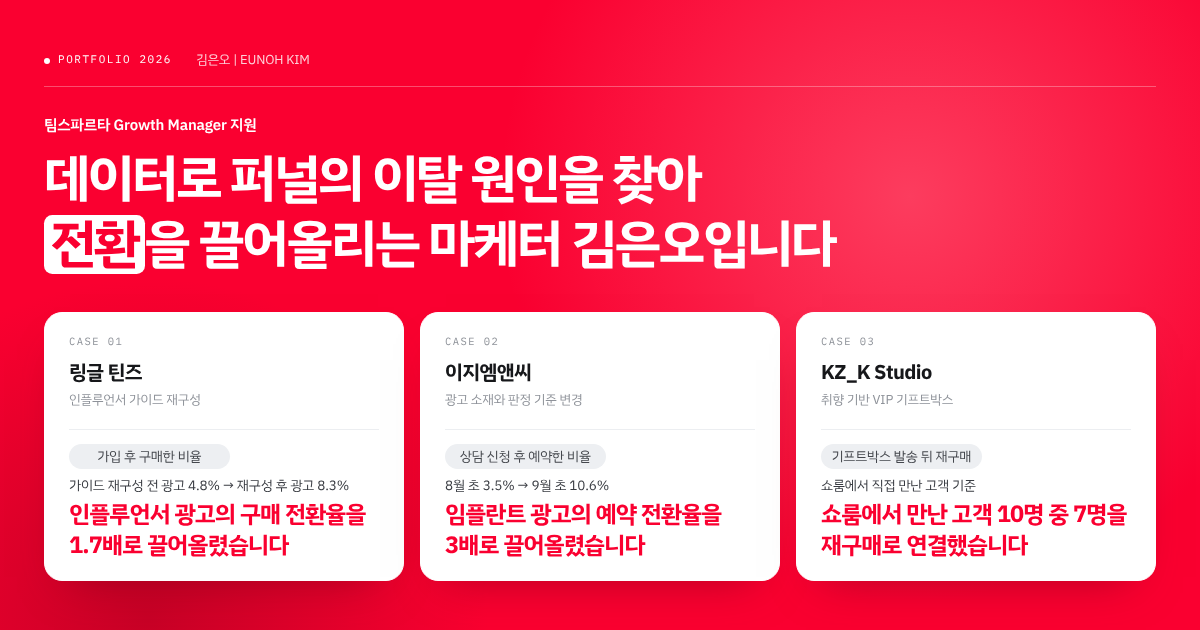
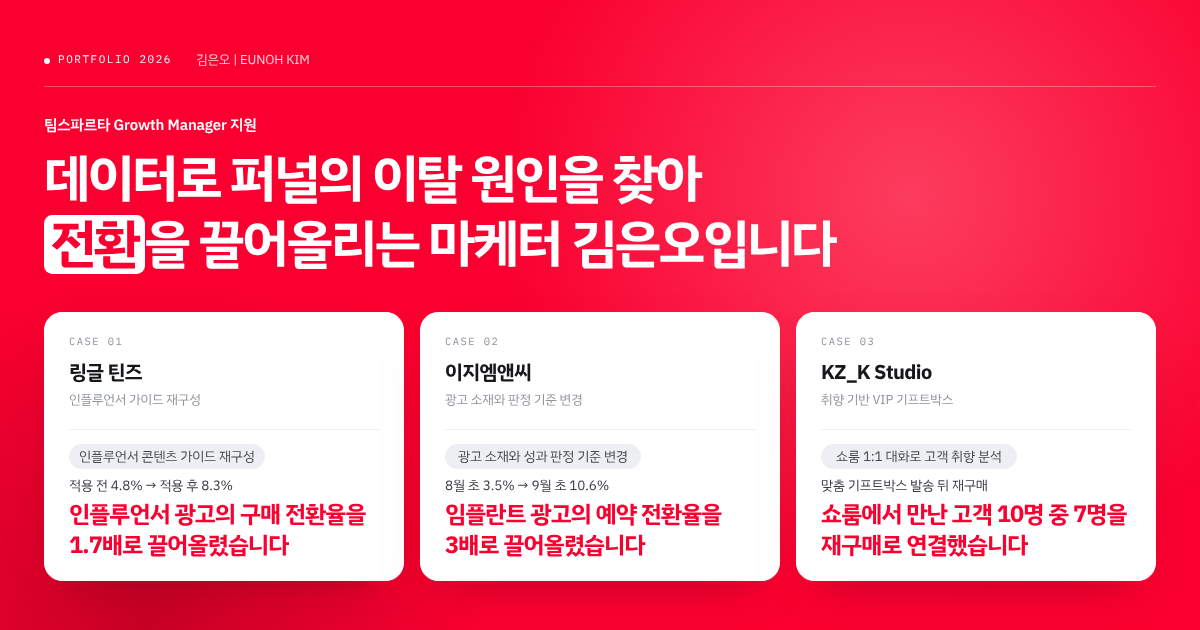
portfolio-teamsparta: cover tile chips and texts replaced; chip always above text
Claude-Session: https://claude.ai/code/session_013smscFGWWBPRpsfkpqHfav

Changed region(s): [[0.0617, 0.6937, 0.3083, 0.7841], [0.6783, 0.6937, 0.8325, 0.7841], [0.37, 0.6937, 0.5242, 0.754]]

diff --git a/portfolio-teamsparta/index.html b/portfolio-teamsparta/index.html
@@ -390,15 +390,15 @@ figcaption{margin-top:7px;font-size:12px;color:var(--mute);line-height:1.4}
 /* 큰 줄: 문장이라 두 줄까지, 타일 폭에 맞춰 세 타일 같은 크기 */
 .hero .hi-num{font-size:clamp(16px,7.6cqi,30px);line-height:1.3;letter-spacing:-.035em}
 @media screen and (max-width:380px){.hero .hero-title{font-size:8vw}}
-/* 표지 타일 작은 줄: 칩 + 텍스트 (타일 폭이 좁으면 칩 윗줄, 텍스트 아랫줄) */
+/* 표지 타일 작은 줄: 칩 + 텍스트 */
 .hero .hi{container-type:inline-size}
 .hero .hi-lb{display:flex;flex-direction:column;align-items:flex-start;gap:6px}
-.hero .hi-chip{display:inline-block;box-sizing:border-box;min-width:11.9em;padding:2px 10px;border-radius:999px;background:#edeff2;color:#44474d;font-size:13.5px;line-height:1.6;text-align:center;white-space:nowrap}
+.hero .hi-chip{display:inline-block;box-sizing:border-box;min-width:14.5em;padding:2px 10px;border-radius:999px;background:#edeff2;color:#44474d;font-size:13.5px;line-height:1.6;text-align:center;white-space:nowrap}
 .hero .hi-txt{font-size:13.5px;line-height:1.6;color:var(--ink-2)}
-@container (min-width:452px){.hero .hi-lb{flex-direction:row;align-items:center;gap:8px}.hero .hi-txt{white-space:nowrap}}
+/* 칩은 항상 윗줄, 텍스트는 아랫줄 (세 타일 통일) */
 /* 작은 글씨가 한 줄에 안 들어가면 '→' 앞에서만 줄바꿈 */
 .hero .hi-txt .seg{white-space:nowrap}
-@media screen and (min-width:861px){@container (max-width:281px){.hero .hi-txt{min-height:3.2em}}}
+@media screen and (min-width:861px){@container (max-width:167px){.hero .hi-txt{min-height:3.2em}}}
 @media screen and (min-width:861px) and (max-width:900px){.hero .hi{padding-left:18px;padding-right:18px}}
 
 /* Contact: 첫 화면과 같은 팀스파르타 레드 #FA0030 바탕 */
@@ -457,19 +457,19 @@ figcaption{margin-top:7px;font-size:12px;color:var(--mute);line-height:1.4}
         <span class="mono">Case 01</span>
         <span class="hi-name">링글 틴즈</span>
         <span class="hi-tag">인플루언서 가이드 재구성</span>
-        <span class="hi-res"><span class="hi-lb"><span class="hi-chip">가입 후 구매한 비율</span><span class="hi-txt"><span class="seg">가이드 재구성 전 광고 4.8%</span> <span class="seg">→ 재구성 후 광고 8.3%</span></span></span><span class="hi-num" data-grow>인플루언서 광고의 구매 전환율을 1.7배로 끌어올렸습니다</span></span>
+        <span class="hi-res"><span class="hi-lb"><span class="hi-chip">인플루언서 콘텐츠 가이드 재구성</span><span class="hi-txt"><span class="seg">적용 전 4.8%</span> <span class="seg">→ 적용 후 8.3%</span></span></span><span class="hi-num" data-grow>인플루언서 광고의 구매 전환율을 1.7배로 끌어올렸습니다</span></span>
       </a>
       <a class="hi" href="#case-3" data-case="3">
         <span class="mono">Case 02</span>
         <span class="hi-name">이지엠앤씨</span>
         <span class="hi-tag">광고 소재와 판정 기준 변경</span>
-        <span class="hi-res"><span class="hi-lb"><span class="hi-chip">상담 신청 후 예약한 비율</span><span class="hi-txt"><span class="seg">8월 초 3.5%</span> <span class="seg">→ 9월 초 10.6%</span></span></span><span class="hi-num" data-grow>임플란트 광고의 예약 전환율을 3배로 끌어올렸습니다</span></span>
+        <span class="hi-res"><span class="hi-lb"><span class="hi-chip">광고 소재와 성과 판정 기준 변경</span><span class="hi-txt"><span class="seg">8월 초 3.5%</span> <span class="seg">→ 9월 초 10.6%</span></span></span><span class="hi-num" data-grow>임플란트 광고의 예약 전환율을 3배로 끌어올렸습니다</span></span>
       </a>
       <a class="hi" href="#case-2" data-case="2">
         <span class="mono">Case 03</span>
         <span class="hi-name">KZ_K Studio</span>
         <span class="hi-tag">취향 기반 VIP 기프트박스</span>
-        <span class="hi-res"><span class="hi-lb"><span class="hi-chip">기프트박스 발송 뒤 재구매</span><span class="hi-txt">쇼룸에서 직접 만난 고객 기준</span></span><span class="hi-num" data-grow>쇼룸에서 만난 고객 10명 중 7명을 재구매로 연결했습니다</span></span>
+        <span class="hi-res"><span class="hi-lb"><span class="hi-chip">쇼룸 1:1 대화로 고객 취향 분석</span><span class="hi-txt">맞춤 기프트박스 발송 뒤 재구매</span></span><span class="hi-num" data-grow>쇼룸에서 만난 고객 10명 중 7명을 재구매로 연결했습니다</span></span>
       </a>
     </nav>
   </div>
